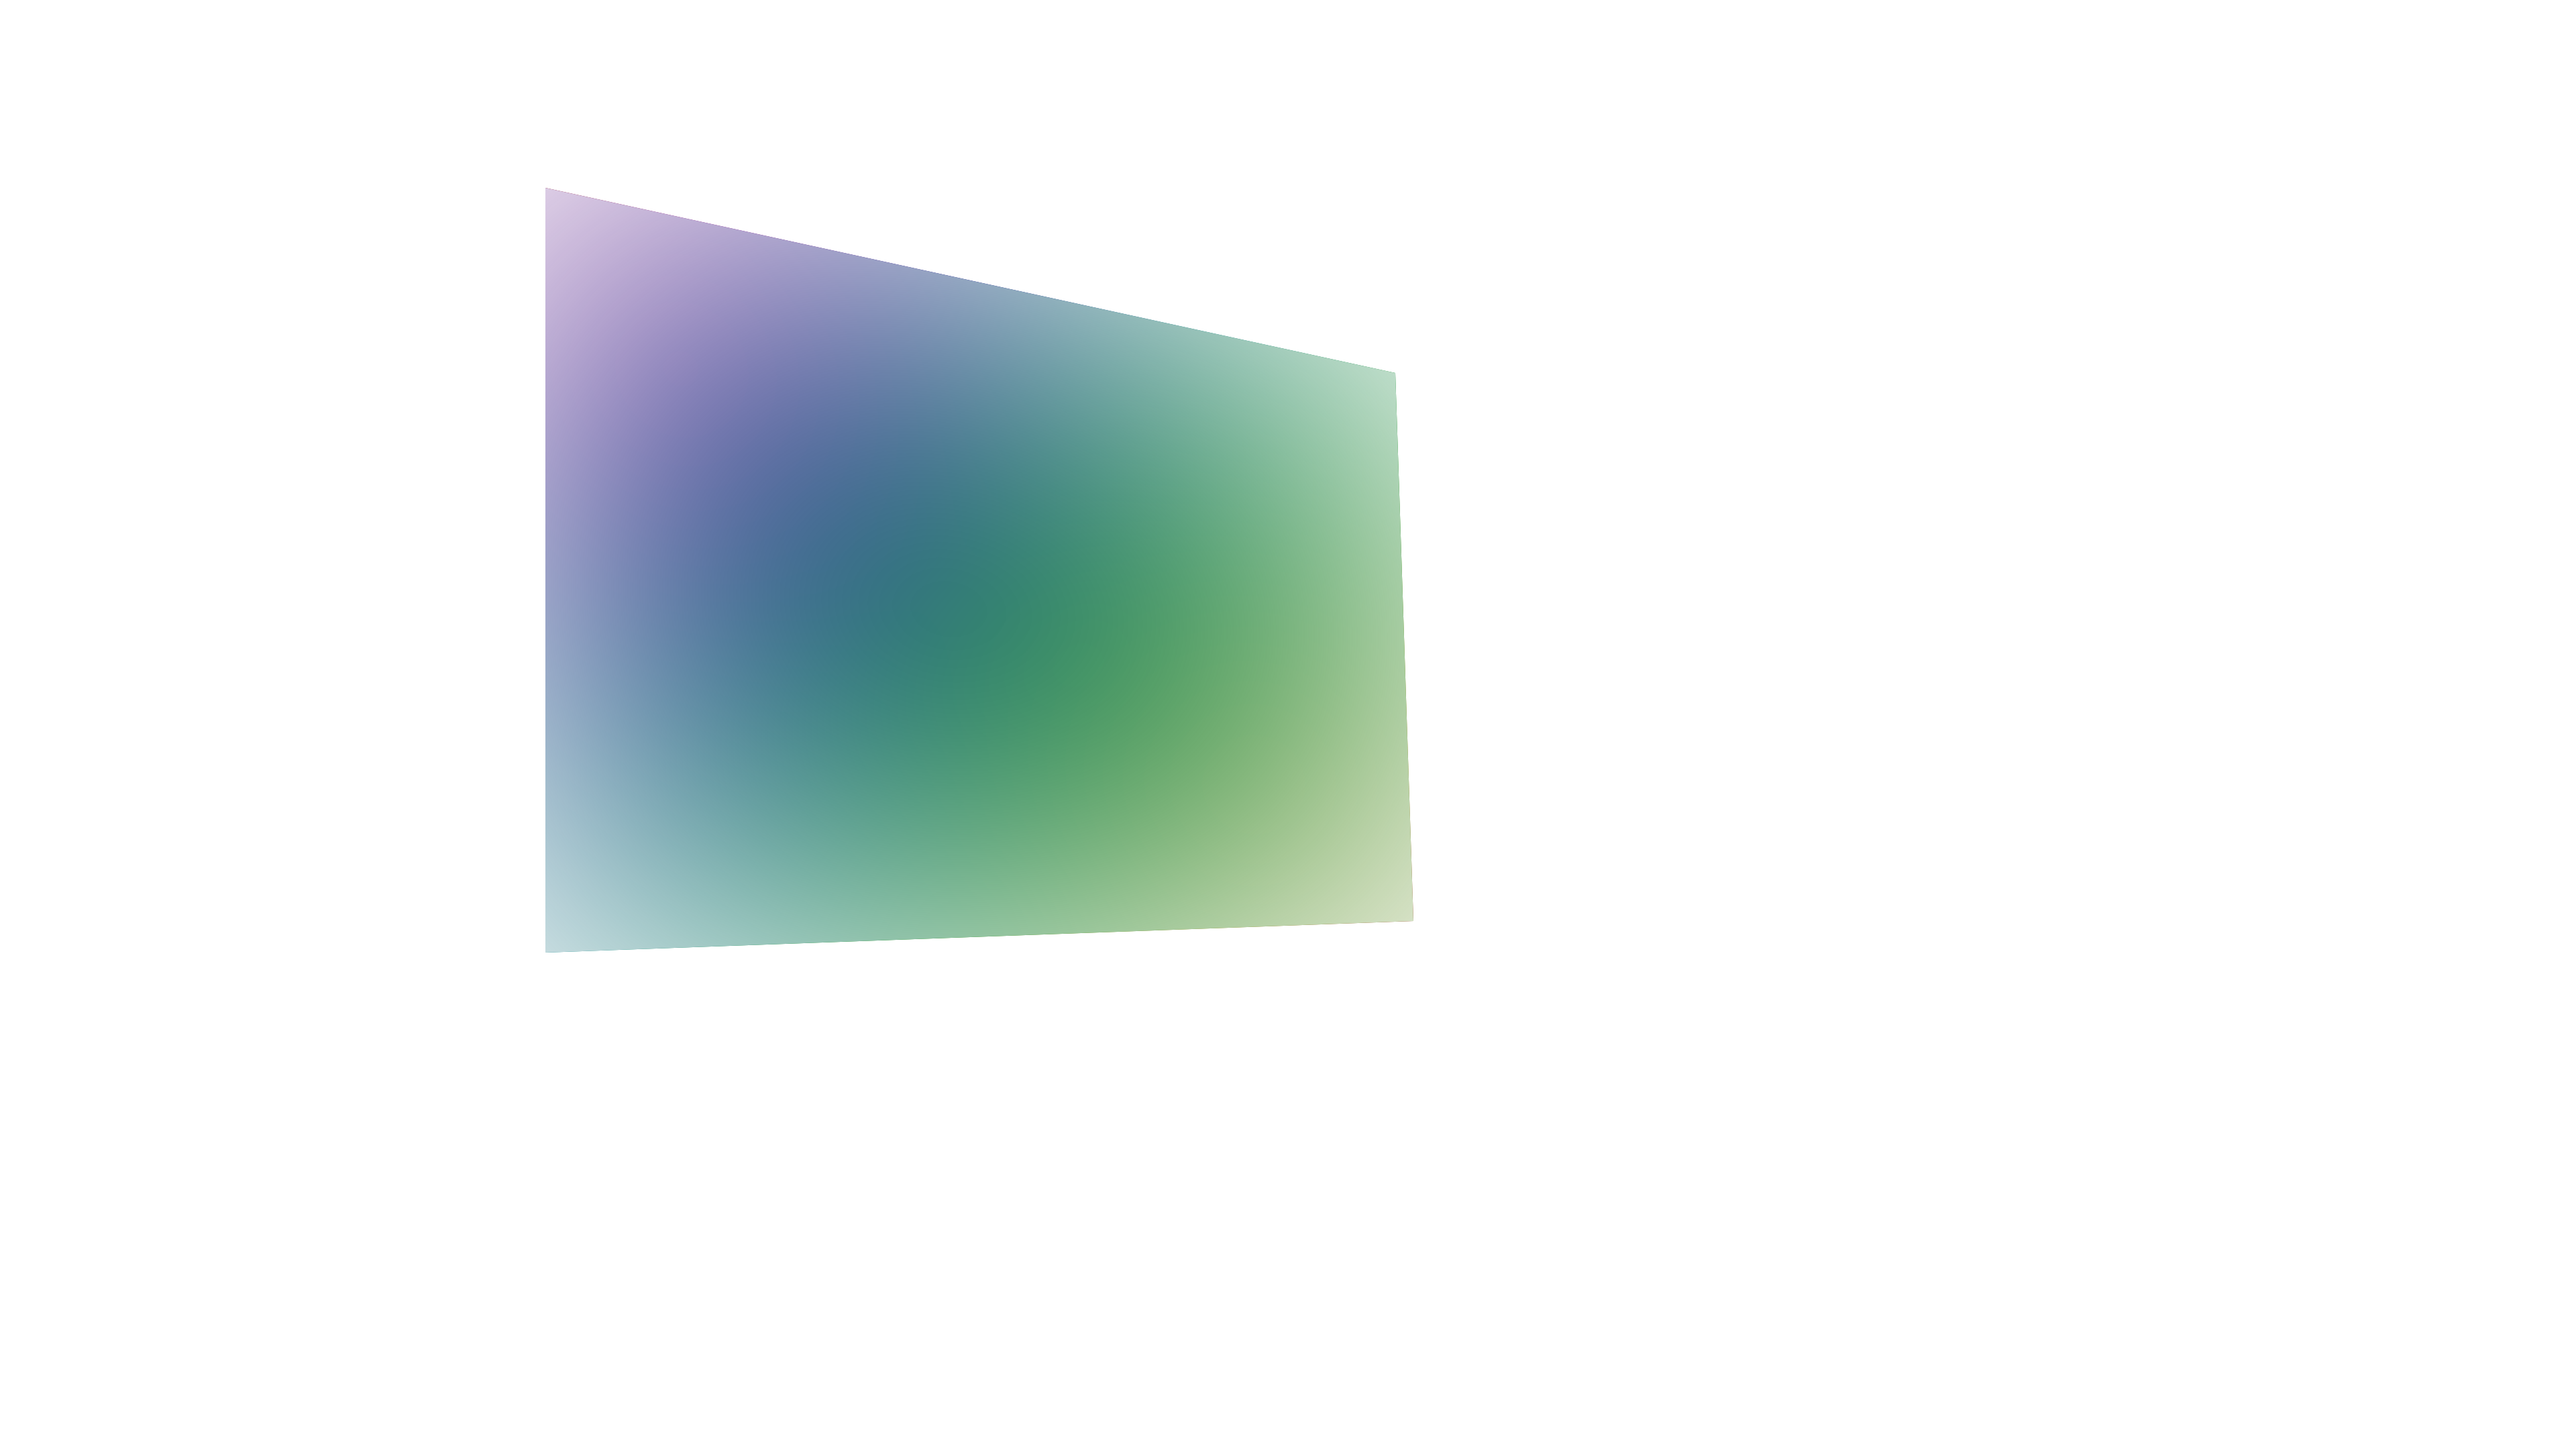
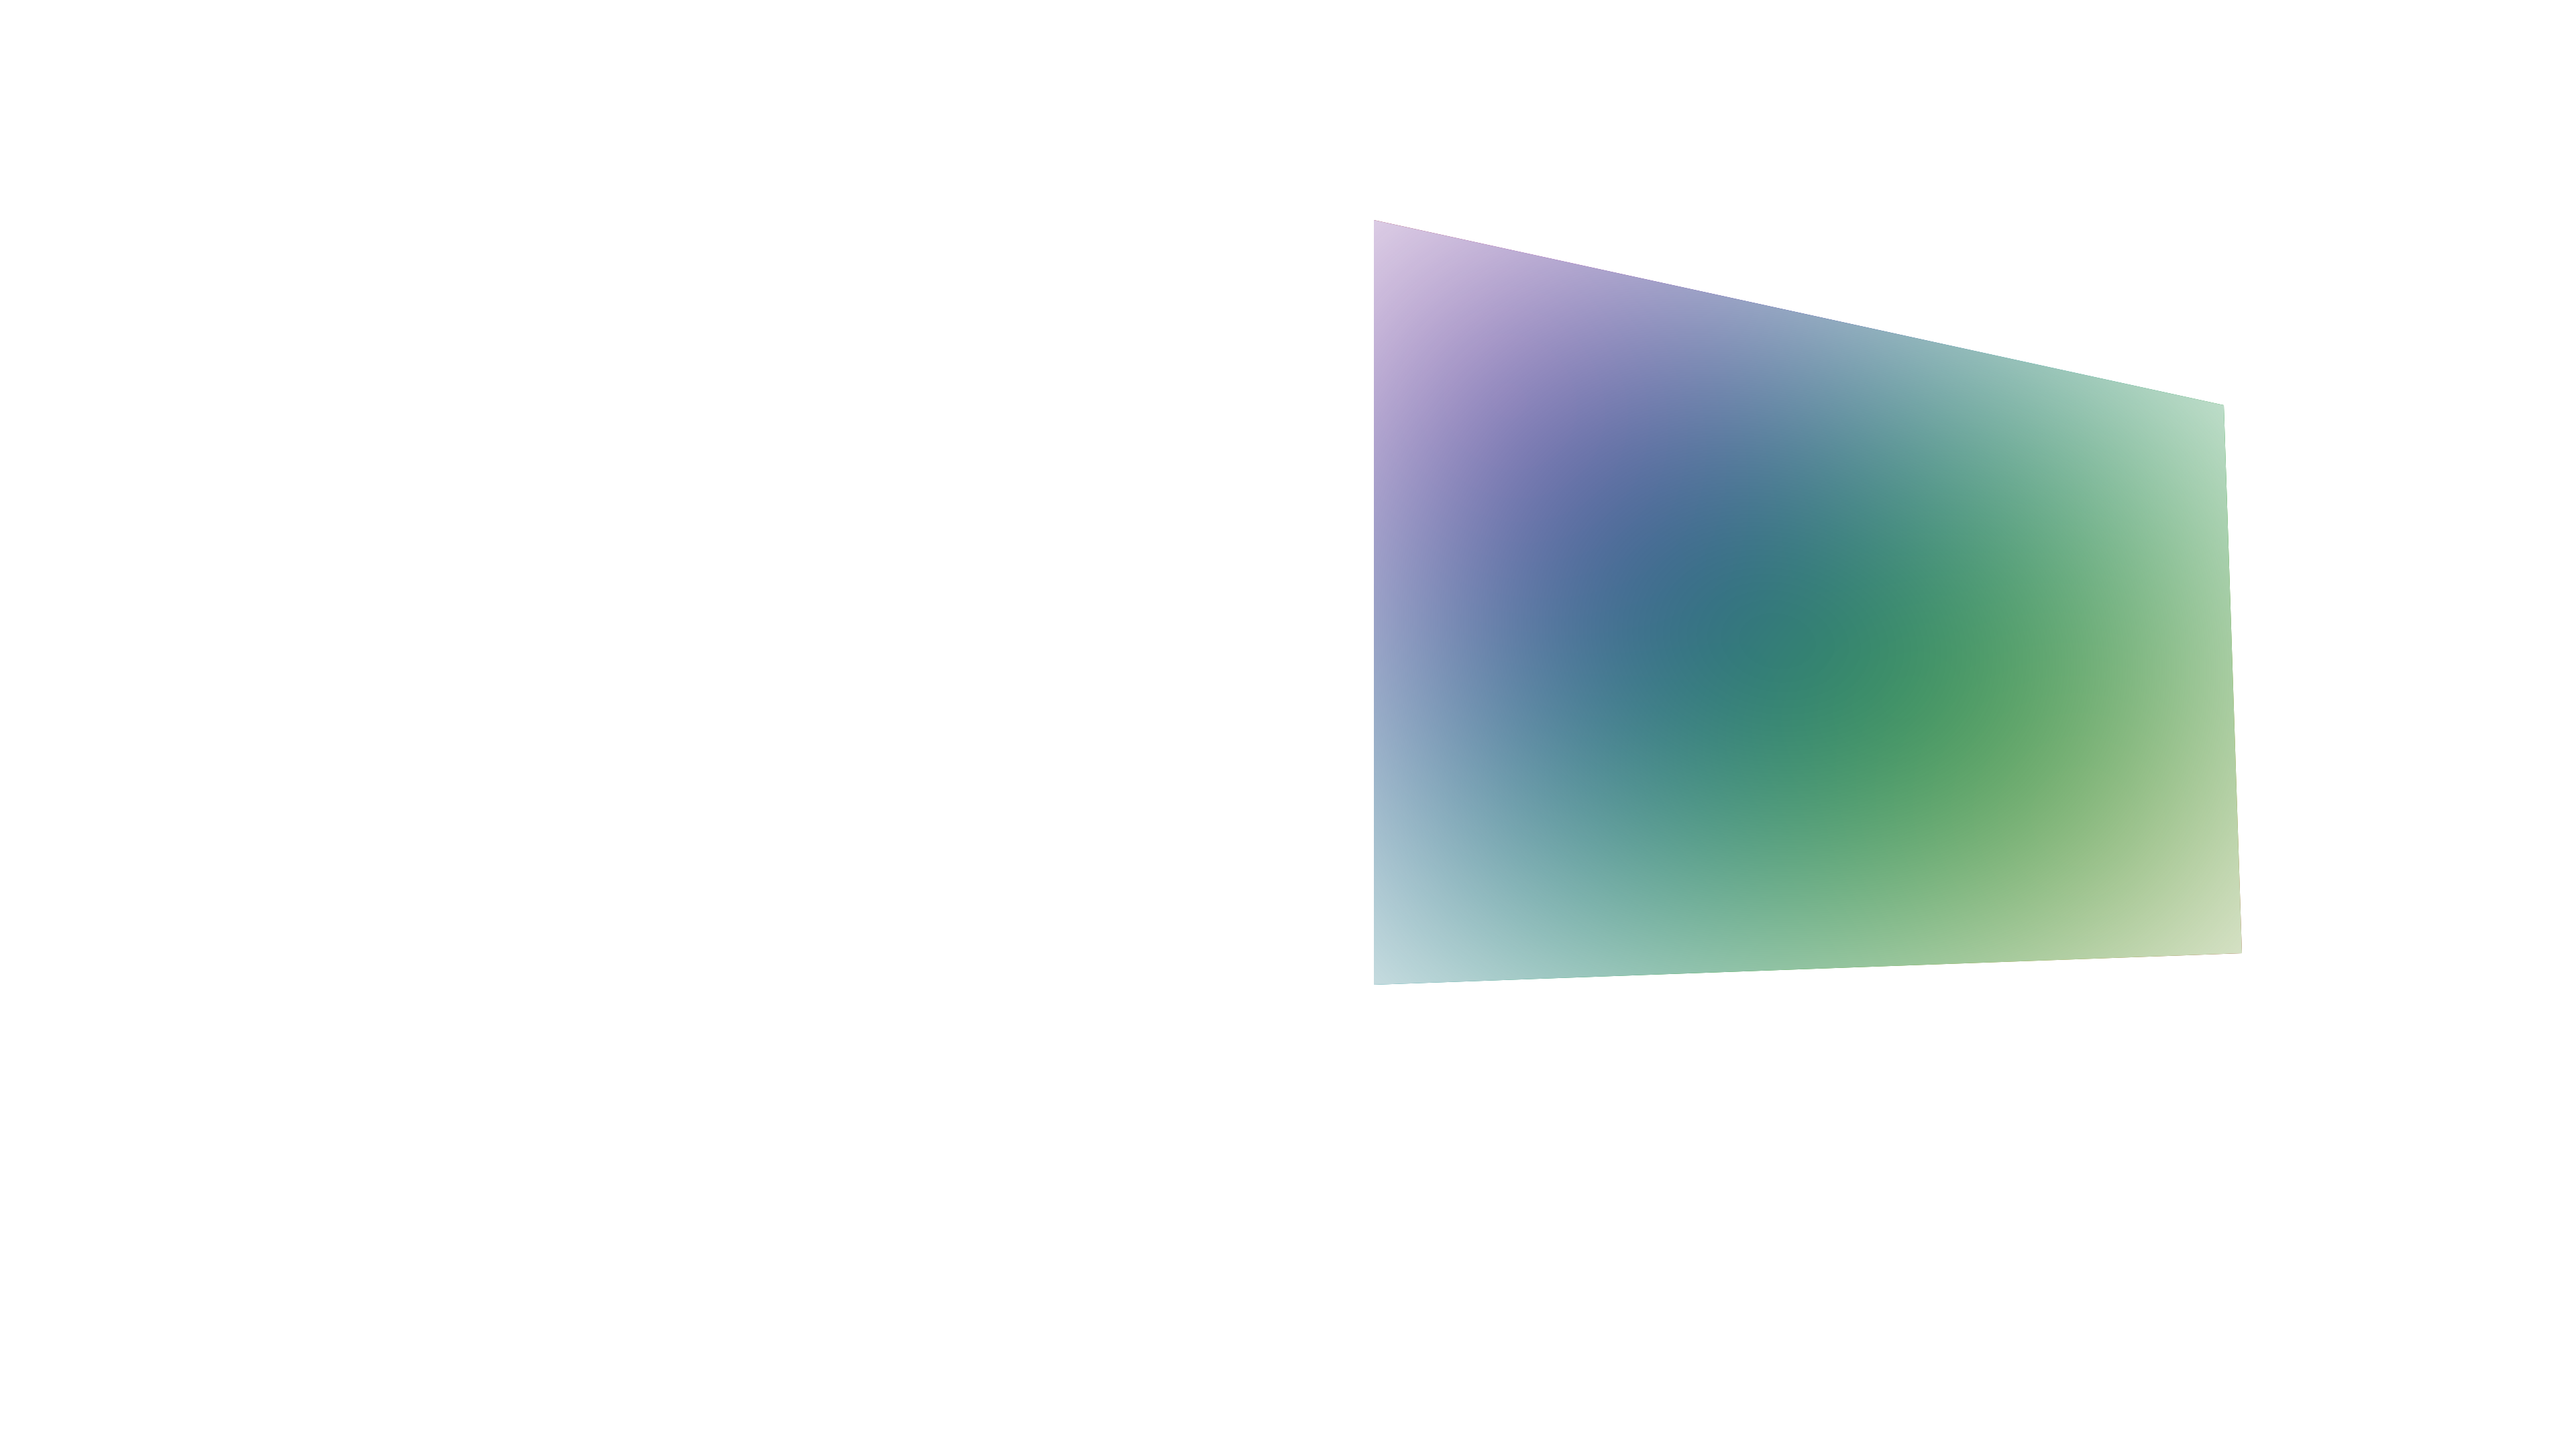
basic: fix and compress pic

Changed region(s): [[0.1875, 0.1241, 0.875, 0.6824]]

diff --git a/assets/css/main.css b/assets/css/main.css
@@ -396,16 +396,16 @@
 .slide-inner--HUD .slide-inner--HUD-box {
   width: 100%;
   height: 100%;
-  -webkit-transform: translate(-310px, -100px);
-  -ms-transform: translate(-310px, -100px);
-  transform: translate(-310px, -100px);
+  -webkit-transform: translate(230px, -65px);
+  -ms-transform: translate(230px, -65px);
+  transform: translate(230px, -65px);
 }
 
 @media (max-width: 1280px) {
   .slide-inner--HUD .slide-inner--HUD-box {
-    -webkit-transform: translate(-280px, -80px) scale(0.9);
-    -ms-transform: translate(-280px, -80px) scale(0.9);
-    transform: translate(-280px, -80px) scale(0.9);
+    -webkit-transform: translate(210px, -60px) scale(0.85);
+    -ms-transform: translate(210px, -60px) scale(0.85);
+    transform: translate(210px, -60px) scale(0.85);
   }
 }
 
@@ -481,10 +481,24 @@
   width: 100%;
   height: 100%;
   position: absolute;
-  -webkit-transform: rotateX(-28deg) rotateY(-25deg) rotateZ(-2.3deg) translate(380px, -80px) scale(0.25);
-  transform: rotateX(-28deg) rotateY(-25deg) rotateZ(-2.3deg) translate(380px, -80px) scale(0.25);
+  -webkit-transform: rotateX(-28deg) rotateY(-25deg) rotateZ(-2.3deg) translate(370px, -80px) scale(0.25);
+  transform: rotateX(-28deg) rotateY(-25deg) rotateZ(-2.3deg) translate(370px, -80px) scale(0.25);
   -webkit-filter: drop-shadow(0 0 0.75rem #2272D2) brightness(150%);
   filter: drop-shadow(0 0 0.75rem #2272D2) brightness(150%);
+}
+
+@media (max-width: 1440px) {
+  .slide-inner--HUD .slide-inner--HUD-box_bar {
+    -webkit-transform: rotateX(-28deg) rotateY(-25deg) rotateZ(-2.3deg) translate(330px, -80px) scale(0.25);
+    transform: rotateX(-28deg) rotateY(-25deg) rotateZ(-2.3deg) translate(330px, -80px) scale(0.25);
+  }
+}
+
+@media (max-width: 1280px) {
+  .slide-inner--HUD .slide-inner--HUD-box_bar {
+    -webkit-transform: rotateX(-28deg) rotateY(-25deg) rotateZ(-2.3deg) translate(340px, -80px) scale(0.25);
+    transform: rotateX(-28deg) rotateY(-25deg) rotateZ(-2.3deg) translate(340px, -80px) scale(0.25);
+  }
 }
 
 .slide-inner--HUD .slide-inner--HUD-box_bar #up #Fill-10 {

diff --git a/src/css/main.scss b/src/css/main.scss
@@ -214,9 +214,9 @@
   .slide-inner--HUD-box {
     width: 100%;
     height: 100%;
-    transform: translate(-310px, -100px);
+    transform: translate(230px, -65px);
     @media (max-width: 1280px) {
-      transform: translate(-280px, -80px) scale(0.9);
+      transform: translate(210px, -60px) scale(0.85);
     }
     &_hud_bg {
       @include full_screen;
@@ -262,8 +262,14 @@
     }
     &_bar {
       @include full_screen;
-      transform:rotateX(-28deg) rotateY(-25deg) rotateZ(-2.3deg) translate(380px,-80px) scale(0.25);
+      transform:rotateX(-28deg) rotateY(-25deg) rotateZ(-2.3deg) translate(370px,-80px) scale(0.25);
       filter: drop-shadow(0 0 0.75rem #2272D2) brightness(150%);
+      @media (max-width: 1440px) {
+        transform:rotateX(-28deg) rotateY(-25deg) rotateZ(-2.3deg) translate(330px,-80px) scale(0.25);
+      }
+      @media (max-width: 1280px) {
+        transform:rotateX(-28deg) rotateY(-25deg) rotateZ(-2.3deg) translate(340px,-80px) scale(0.25);
+      }
       #up {
         #Fill-10 {
           opacity: 0;

diff --git a/index.html b/index.html
@@ -33,6 +33,7 @@
               <div class="slide-inner" data-swiper-parallax="45%">
                 <div class="overlay"></div>
                 <div class="slide-inner--item">
+                  <div class="slide-inner--item_particle_screen"></div>
                   <div class="slide-inner--item_particle">
                     <video id="particle_screen" controls="" autoplay="" muted="" loop="">
                       <source src="../assets/video/particle_screen.webm" type="video/webm"/>
